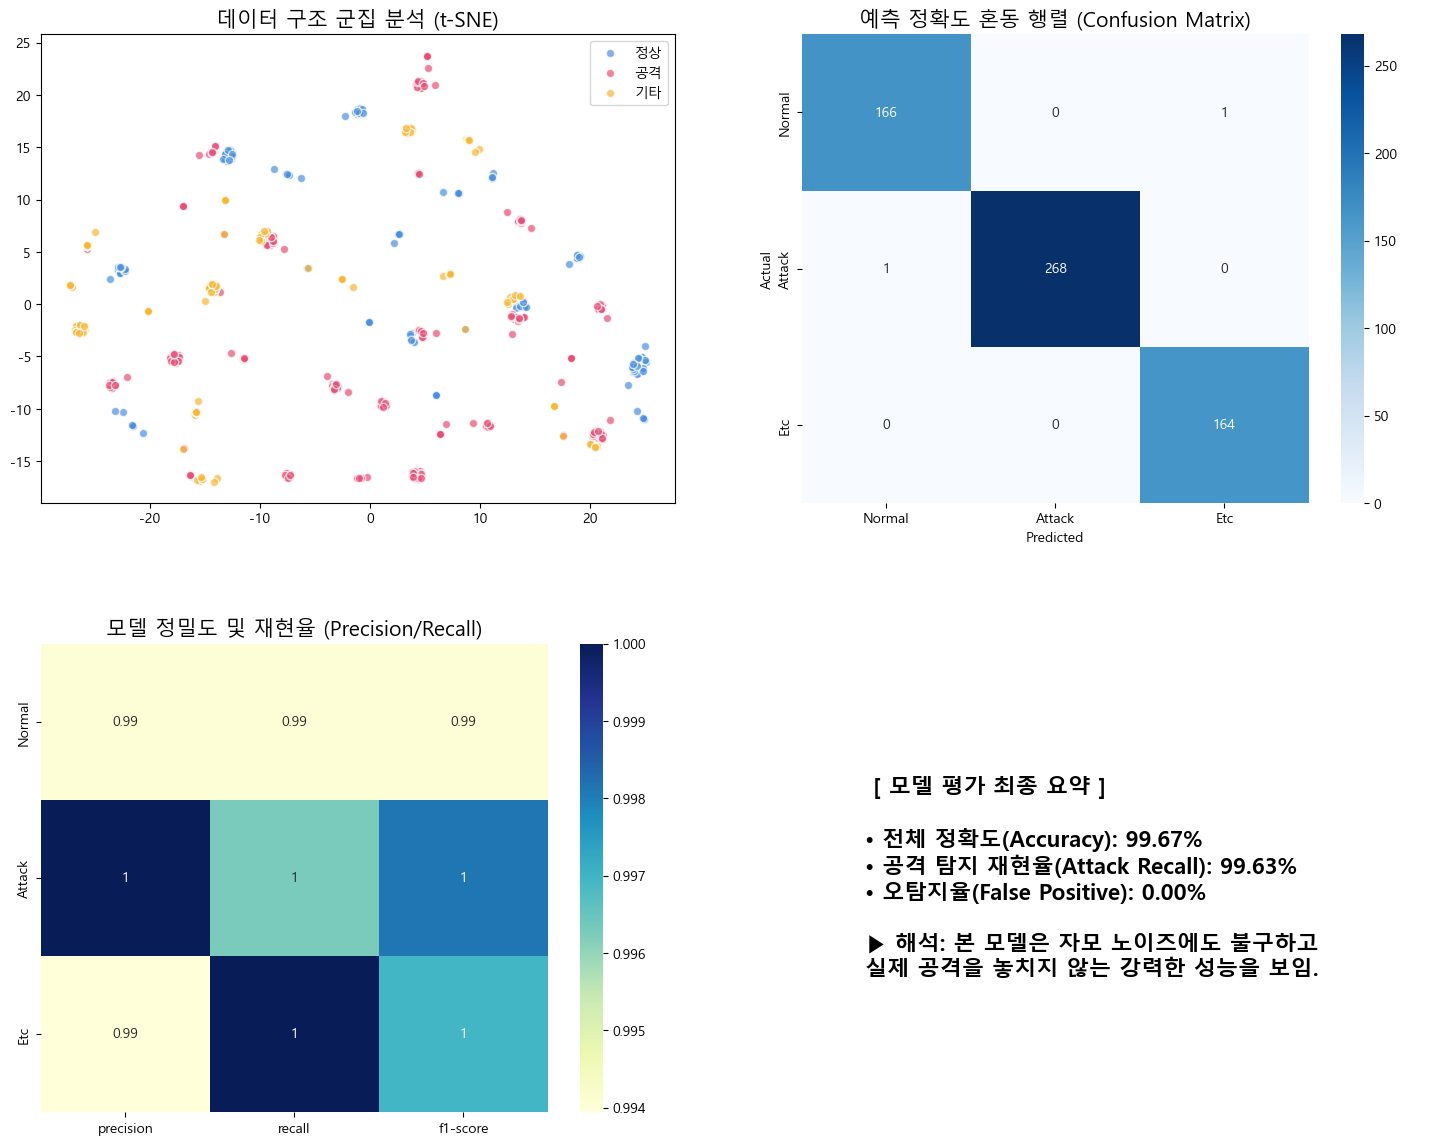
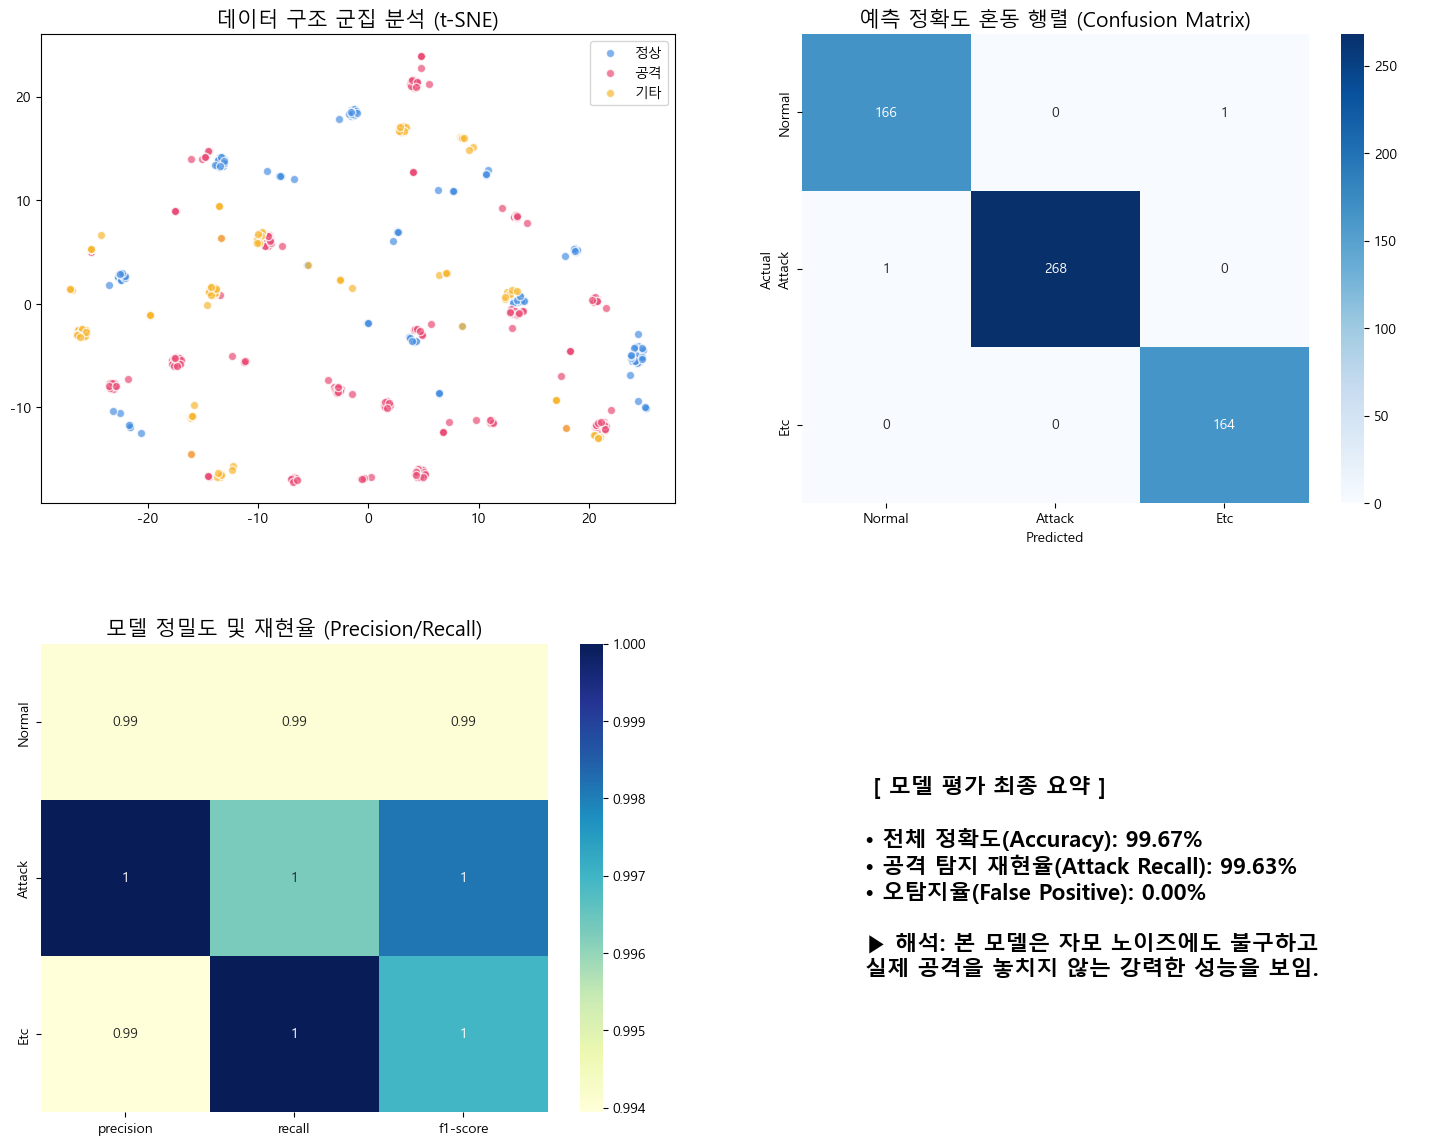
사용자 입력 차단 X

diff --git a/run.py b/run.py
@@ -97,12 +97,12 @@ while True:
         prob = torch.nn.functional.softmax(output, dim=1)[0][pred] * 100
         
         # 4. 결과 출력
-        print(f"🤖 모델 인식: 입력하신 '{user_input}'을(를) '{recognized_word}'(으)로 인식했습니다.")
-        print(f"🔍 탐지 결과: Class {pred} (확신도: {prob:.2f}%)")
+        print(f"모델 인식: 입력하신 '{user_input}'을(를) '{recognized_word}'(으)로 인식했습니다.")
+        print(f"")
         
         if pred == 1: # 보통 1을 공격/위험으로 설정하는 경우
-            print("⚠️ 경고: 보안 위협 패턴이 감지되었습니다!")
+            print("")
         else:
-            print("✅ 정상적인 입력 패턴입니다.")
+            print("")
 
 print("="*50)